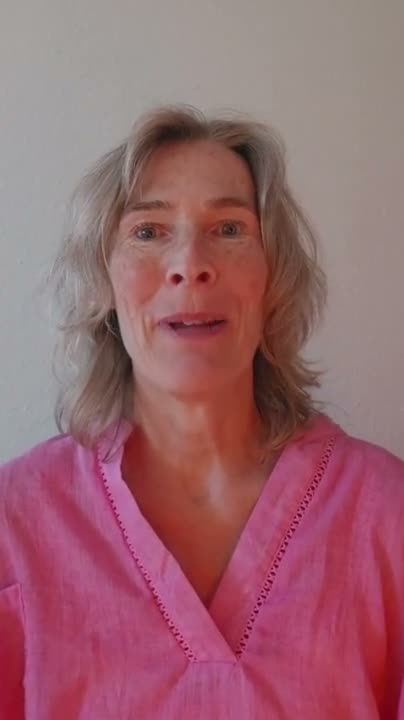
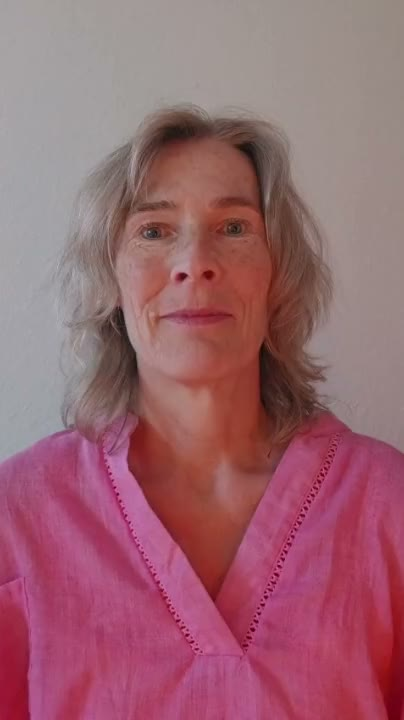
Use first video frame as intro video poster

diff --git a/index.html b/index.html
@@ -974,7 +974,7 @@ section#newsletter h2{font-size:clamp(1.6rem,3vw,2.1rem)}
     <div class="marke" style="margin-top:3rem">Bevor du schreibst</div>
     <h3 style="font-size:1.5rem;margin-bottom:1rem">Über mich und meine Arbeit:</h3>
     <figure class="video-rahmen" id="videorahmen">
-      <video controls preload="metadata" playsinline poster="assets/ueber-mich-poster.jpg" aria-label="Video über Catherine Wünnenberg">
+      <video controls preload="metadata" playsinline poster="assets/ueber-mich-poster.jpg?v=2" aria-label="Video über Catherine Wünnenberg">
         <source src="assets/ueber-mich.mp4" type="video/mp4">
         Dein Browser unterstützt keine HTML5-Videos.
       </video>
